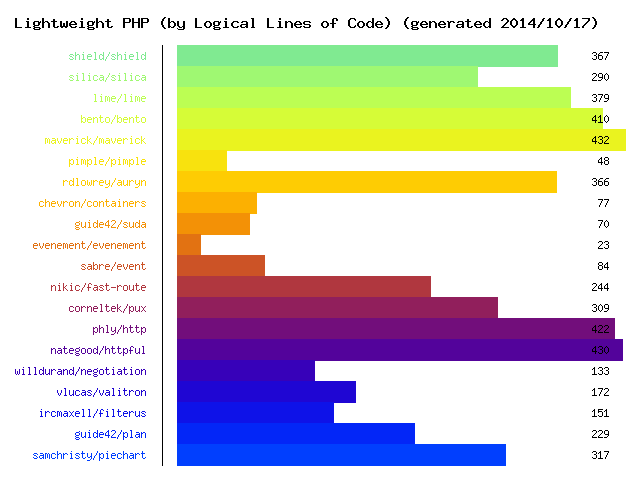
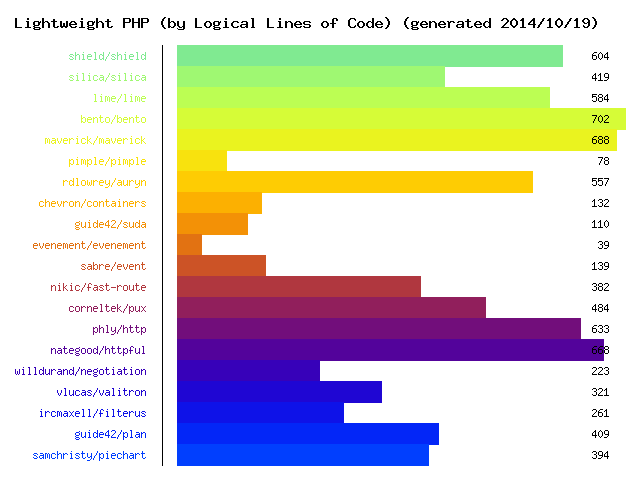
Change weight algorithm
Now it counts the number of ; and { in the source code of each file.

diff --git a/weight.php b/weight.php
@@ -128,7 +128,7 @@ class Weight
     protected function weightFile($filename)
     {
         $buffer = file_get_contents($filename);
-        $weight = substr_count($buffer, ';');
+        $weight = substr_count($buffer, ';') + substr_count($buffer, '{');
 
         return $weight;
     }
